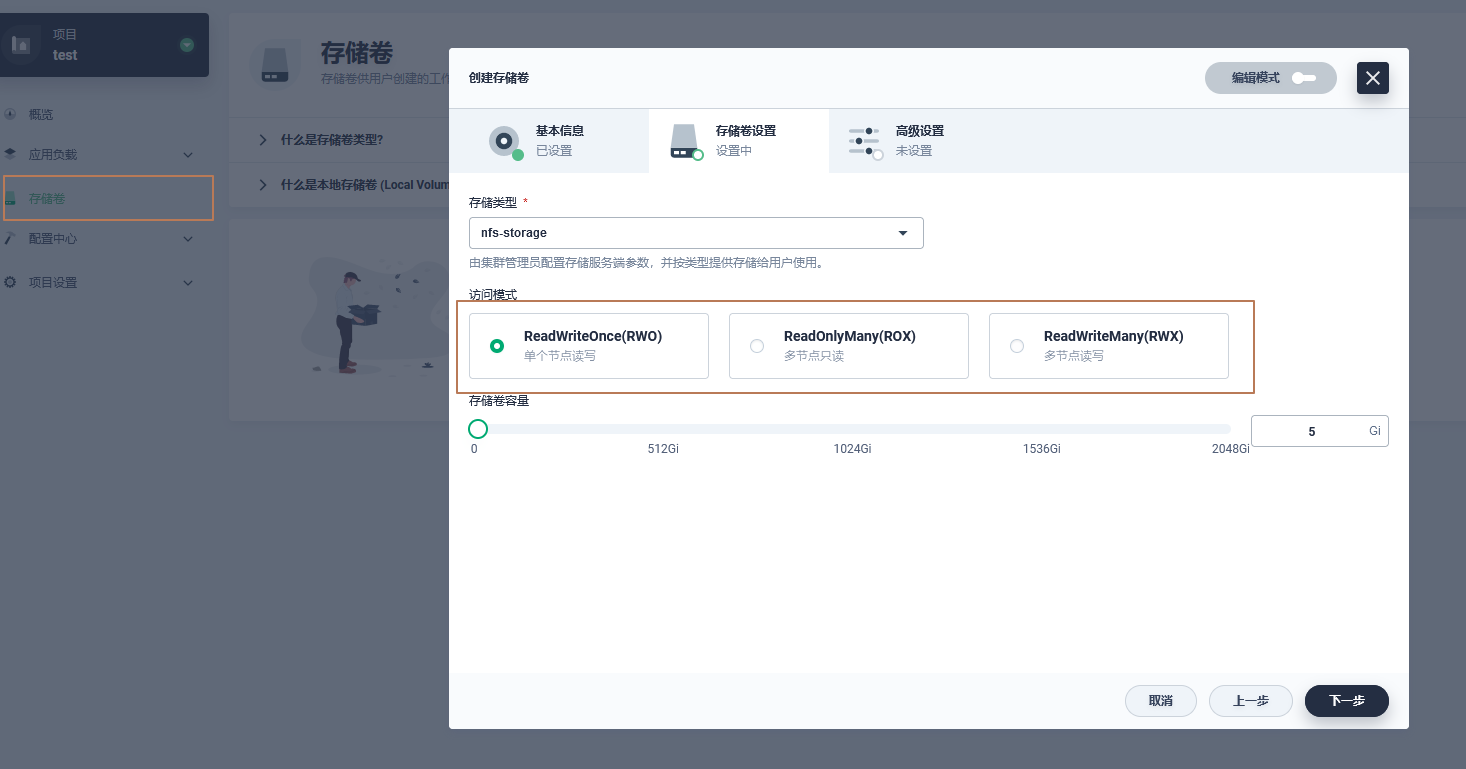
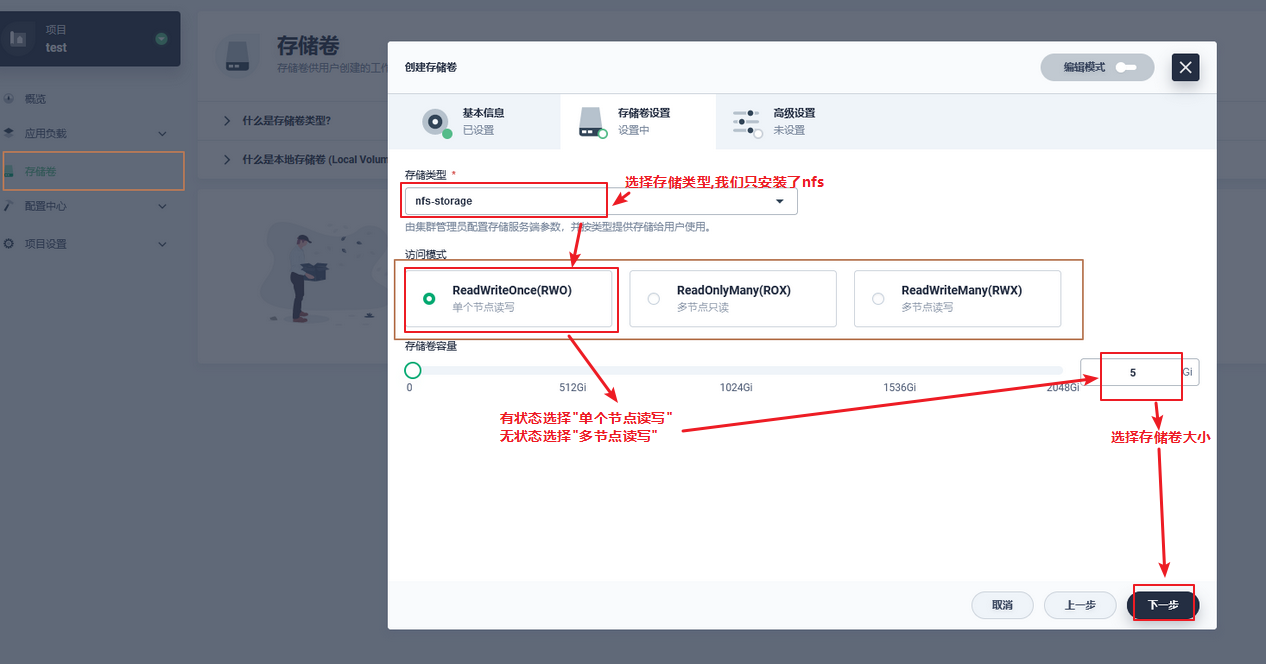
更新使用Kubesphere部署中间件文档

diff --git a/2021/20211220-使用KubeSphere部署中间件.md b/2021/20211220-使用KubeSphere部署中间件.md
@@ -1,0 +1,107 @@
+#	使用KubeSphere部署中间件
+
+----
+
+#   部署Mysql
+
+##  创建pvc
+
+![](../images/2021/12/20211220095003.png)
+
+![](../images/2021/12/20211220095051.png)
+
++   有状态多使用单节点读写
++   无状态多使用多节点读写
+
+![](../images/2021/12/20211216165041.png)
+
+
+##  创建配置文件
+
+![](../images/2021/12/20211220095209.png)
+
+![](../images/2021/12/20211220095233.png)
+
+![](../images/2021/12/20211220095436.png)
+
+##  创建mysql
+
+![](../images/2021/12/20211220095543.png)
+
+![](../images/2021/12/20211220095605.png)
+
++   配置镜像
+
+![](../images/2021/12/20211220101453.png)
+
+![](../images/2021/12/20211220095817.png)
+
+![](../images/2021/12/20211220100139.png)
+
+![](../images/2021/12/20211220100409.png)
+
+![](../images/2021/12/20211220100525.png)
+
+![](../images/2021/12/20211220100855.png)
+
+![](../images/2021/12/20211220101050.png)
+
+![](../images/2021/12/20211220094527.png)
+
+##  配置service
+
++   targetPort:是continer暴露出来的端口
++   port:是service暴露出来的端口
++   NodePort:是node暴露出来的端
+
+![](../images/2021/12/20211220101631.png)
+
+![](../images/2021/12/20211220101642.png)
+
+![](../images/2021/12/20211220102022.png)
+
+![](../images/2021/12/20211220102229.png)
+
+![](../images/2021/12/20211220102326.png)
+
+设置完成后可以查看外网的ip
+
+
+#   部署redis
+
+主要说明有启动命令该怎么处理
+
+##  创建redis
+
+![](../images/2021/12/20211220104257.png)
+
+#   部署es
+
+1.  说明配置文件要挂载的目录不为空
+2.  说明有多个文件要如何挂载
+
+![](../images/2021/12/20211220151559.png)
+
+![](../images/2021/12/20211220151817.png)
+
+#   使用商店或helm
+
+##  使用Helm
+
+### 添加Helm仓库
+
+![](../images/2021/12/20211220150818.png)
+
+![](../images/2021/12/20211220150714.png)
+
+![](../images/2021/12/20211220150901.png)
+
+### 使用Helm构建应用
+
+![](../images/2021/12/20211220150520.png)
+
+![](../images/2021/12/20211220150549.png)
+
+这里主要是helm语法
+
+![](../images/2021/12/20211220150614.png)

diff --git a/README.md b/README.md
@@ -524,7 +524,8 @@
 -   [Kubernetes基础概念与安装](2021/20211213-Kubernetes基础概念与安装.md)
 -   [Kubernetes核心实战](2021/20211130-Kubernetes核心实战.md)
 -   [KubeSphere安装](2021/20211216-KubeSphere安装.md)
--   [KubeSphere多租户系统实战](2021/20211216-KubeSphere多租户系统实战.md)
+-   [KubeSphere的租户体系](2021/20211216-KubeSphere的租户体系.md)
+-   [使用KubeSphere部署中间件](2021/20211220-使用KubeSphere部署中间件.md)
 
 ## 未分类
 -   [番茄工作法](2018/20180422-番茄工作法.md)

diff --git a/2021/20211216-KubeSphere的租户体系.md b/2021/20211216-KubeSphere的租户体系.md
@@ -1,4 +1,4 @@
-#   Kubesphere多租户系统实战
+#   KubeSphere的租户体系
 
 ----
 
@@ -15,8 +15,3 @@
 2.  大老板用户进入企业空间A,邀请甲,成为企业空间A的管理员(workspace-admin);进入企业空间B,邀请乙,成为企业空间B的管理员(workspace-admin)
 3.  甲可以邀请其他人,并分配不同的角色
 4.  其他人的角色对应的权限看上图
-
-有状态多使用单节点读写
-无状态多使用多节点读写
-
-![](../images/2021/12/20211216165041.png)
